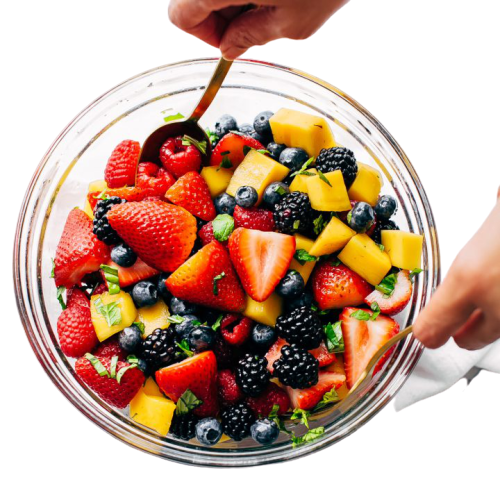
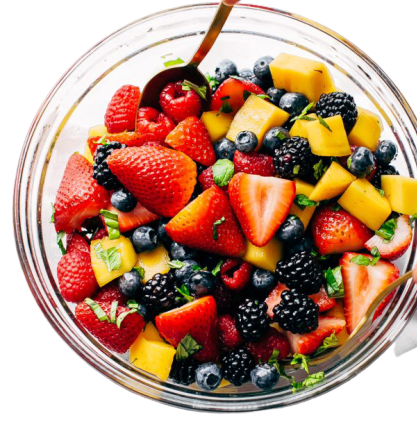
feat: Ajouter une image de fond et un champ de texte configurable dans l'écran d'accueil

diff --git a/lib/widgets/textField.dart b/lib/widgets/textField.dart
@@ -5,8 +5,15 @@ class CTextfield extends StatelessWidget {
   final Color? backgroundColor;
   final String? hint;
   final double? raduis;
+  final FontWeight ? fontWeight;
 
-  const CTextfield({super.key, this.backgroundColor, this.hint, this.raduis = 15, required FontWeight fontWeight});
+  const CTextfield({
+    super.key,
+    this.backgroundColor,
+    this.hint,
+    this.raduis = 15,
+    this.fontWeight,
+  });
  
   @override
   Widget build(BuildContext context) {
@@ -16,7 +23,11 @@ class CTextfield extends StatelessWidget {
         fillColor: backgroundColor ?? Config.colors.backgroundTextField,
         border: OutlineInputBorder(borderSide: BorderSide.none, borderRadius: BorderRadius.circular(raduis ?? 15)),
         hintText: hint,
-        hintStyle: TextStyle(color: Config.colors.hintColor, fontSize: 20),
+        hintStyle: TextStyle(
+          color: Config.colors.hintColor,
+          fontSize: 20,
+          fontWeight: fontWeight,
+        ),
       ),
     );
   }

diff --git a/lib/config/config.dart b/lib/config/config.dart
@@ -1,7 +1,9 @@
 import 'package:flutter/material.dart';
+
 class Config {
-  static final  colors = _Color();
+  static final colors = _Color();
   static final assets = _Assets();
+  static final styles = _Style();
 }
 
 class _Color {
@@ -18,4 +20,13 @@ class _Assets {
   final splash_img = 'assets/images/splash_img.png';
   final welcome_img = 'assets/images/basket-of-fruit-cartoon.png';
   final authentification_img = 'assets/images/kisspng-fruit-basket.png';
+  final food_img = 'assets/images/Glowing-Berry-Fruit-Salad.png';
+}
+
+class _Style {
+  final titleStyle = TextStyle(
+    fontSize: 20,
+    fontWeight: FontWeight.bold,
+    color: Config.colors.primaryTextColor,
+  );
 }

diff --git a/lib/main.dart b/lib/main.dart
@@ -1,7 +1,7 @@
 import 'package:flutter/material.dart';
 import 'package:food_app/config/config.dart';
+import 'package:food_app/screens/home.dart';
 import 'package:food_app/screens/splashscreen.dart';
-import 'package:food_app/screens/welcome.dart';
 import 'package:food_app/widgets/splash.dart';
 
 void main() {
@@ -22,7 +22,7 @@ class MyApp extends StatelessWidget {
       ),
       home: SplashWidget(
         child: Splashscreen(),
-        nextPage: Welcome(),
+        nextPage: Home(),
         time: 12,
       ),
     );

diff --git a/lib/screens/home.dart b/lib/screens/home.dart
@@ -1,7 +1,7 @@
 import 'package:flutter/material.dart';
 import 'package:food_app/config/config.dart';
 import 'package:food_app/widgets/button.dart';
-
+import 'package:food_app/widgets/textField.dart';
 
 class Home extends StatelessWidget {
 
@@ -19,6 +19,7 @@ class Home extends StatelessWidget {
               titleColor: Config.colors.primaryColor,
               border: true,
             ),
+            CTextfield(hint: "Enter your text here...")
           ],
         ),
       ),
